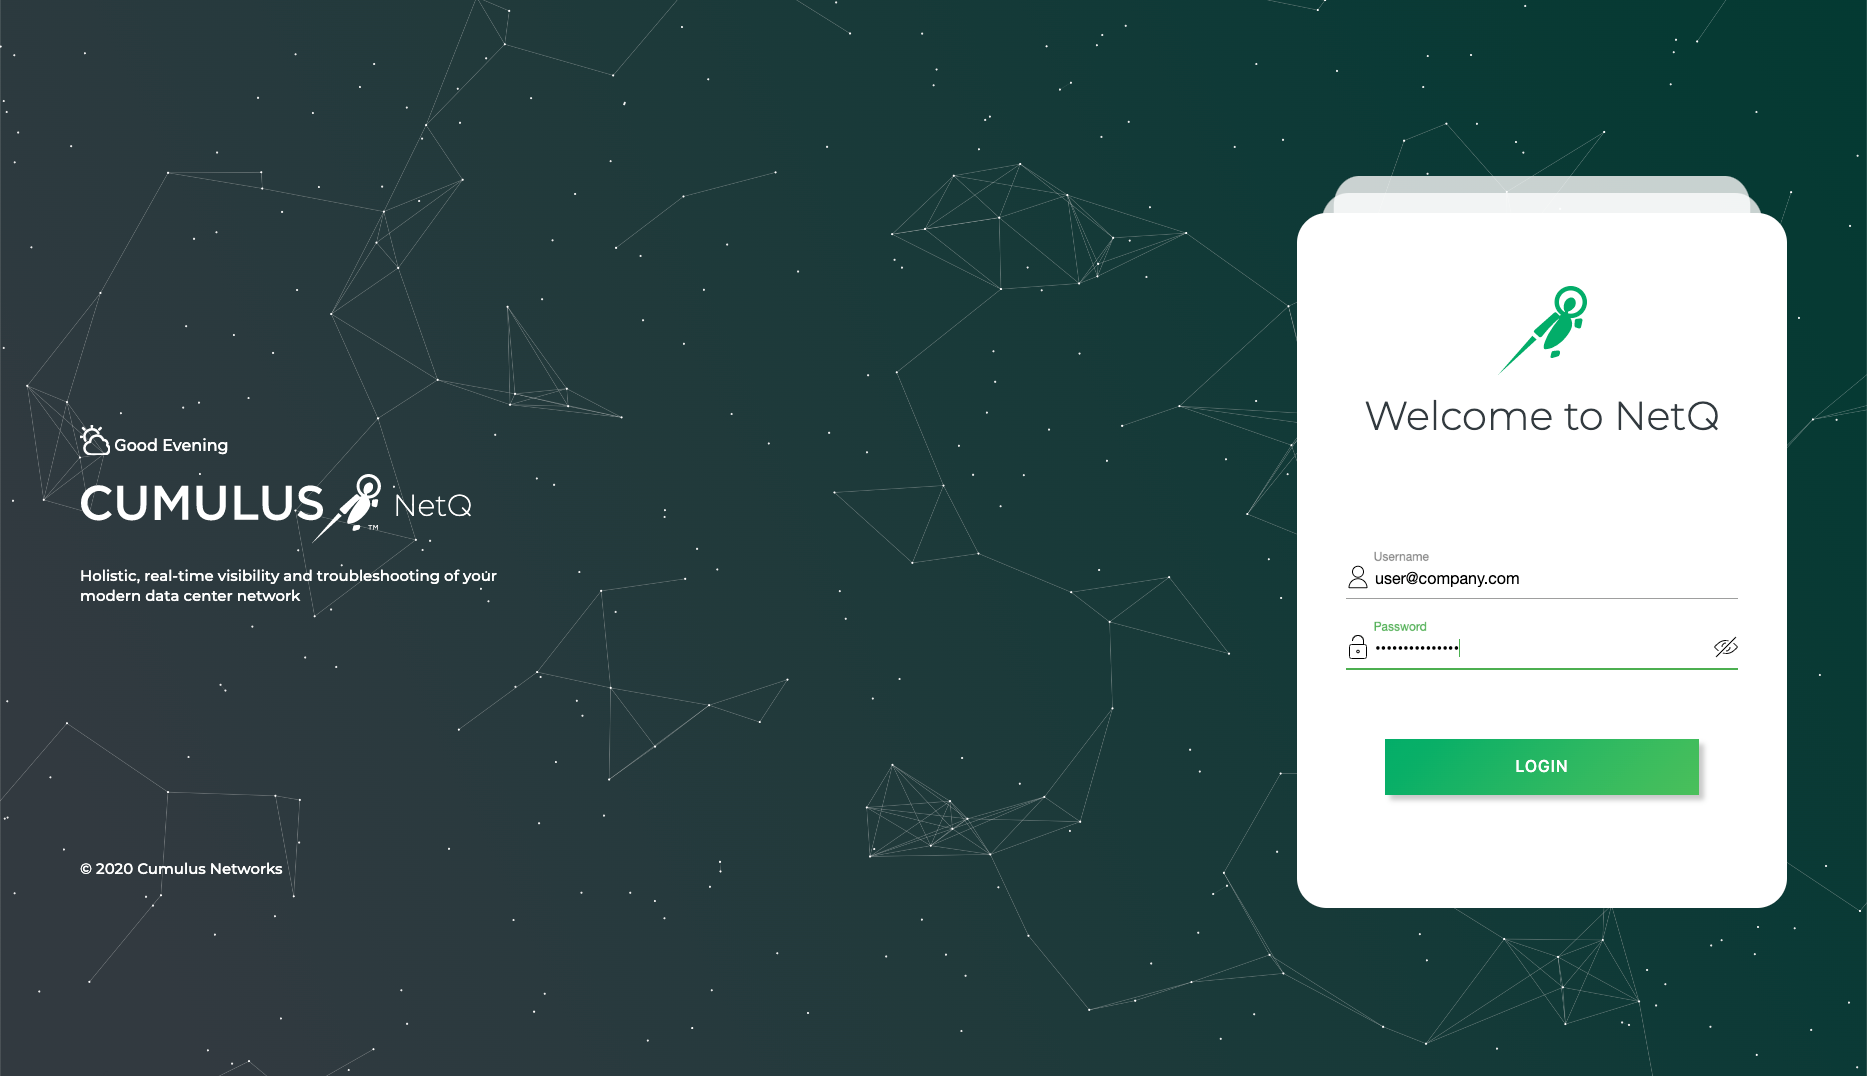
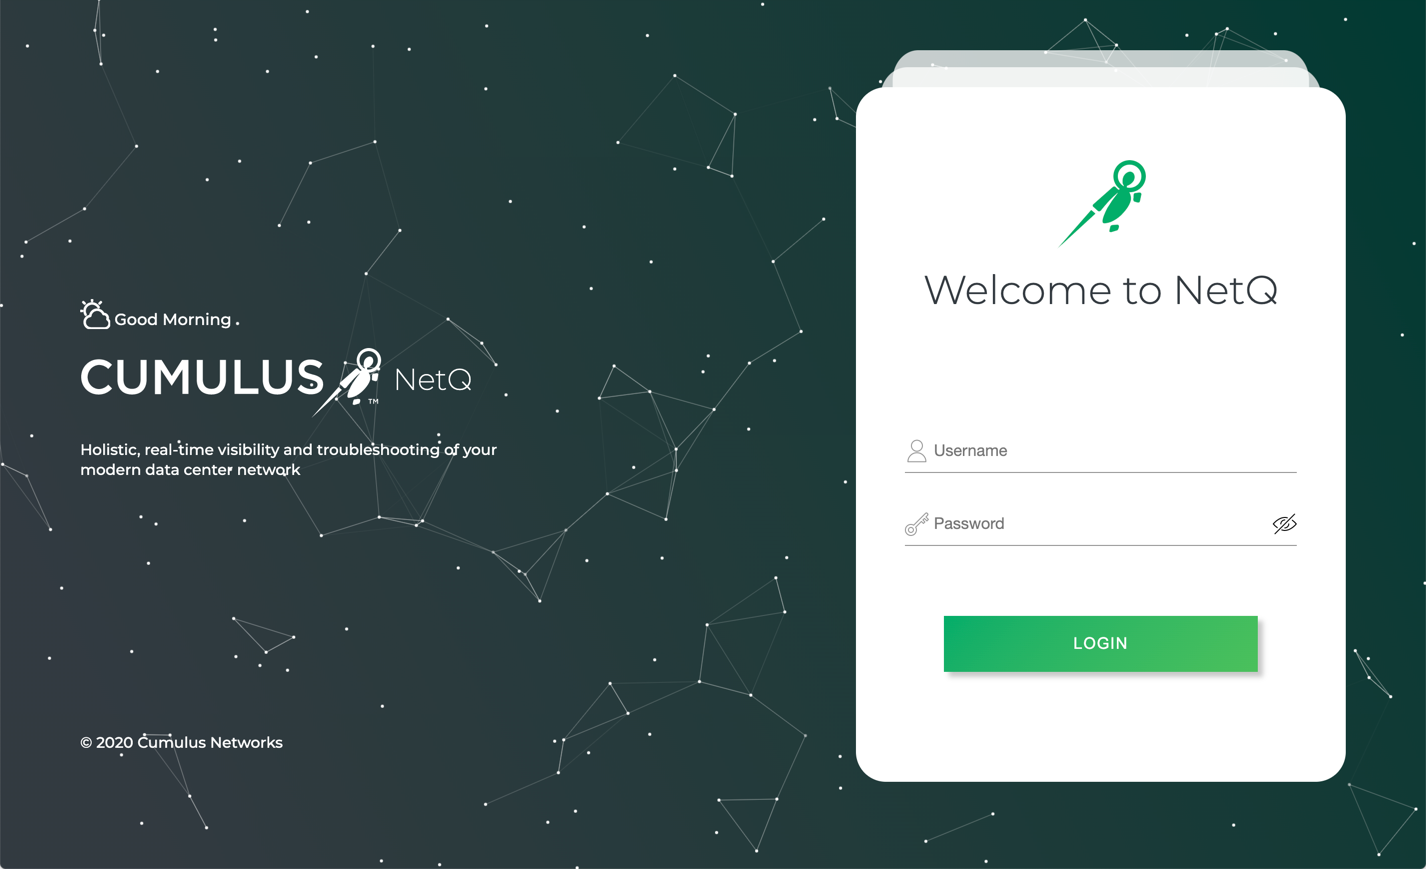
Updated login screens and steps (UD-2080)

diff --git a/content/cumulus-netq-31/Cumulus-NetQ-UI-User-Guide/NetQ-User-Interface-Overview/Access-the-UI.md b/content/cumulus-netq-31/Cumulus-NetQ-UI-User-Guide/NetQ-User-Interface-Overview/Access-the-UI.md
@@ -13,7 +13,7 @@ To log in to the UI:
     - On-premises: *https://\<hostname-or-ipaddress\>:443*  
     - Cloud: *https://netq.cumulusnetworks.com*
 
-    {{< figure src="/images/netq/access-ui-login-screen-310.png" width="600" >}}
+    {{<figure src="/images/netq/access-ui-login-screen-310.png" width="600" >}}
 
 3. Login.
 
@@ -29,23 +29,37 @@ To log in to the UI:
 
 2. Enter your password.
 
+    *Passwords must contain a minimum of eight characters, including at least one uppercase letter, one lowercase letter, one special character, and one number.* If you do not enter a strong enough password, you are reminded of these requirements.
+
+    The following error message appears if you enter incorrect credentials:
+
+    {{<figure src="/images/netq/access-ui-cred-error-310.png" width="250">}}
+
 3. Click **Login**.
 
-4. Change your password.
+    This opens the Reset Password dialog.
 
-    Enter a new password with a minimum of eight characters, including at least one uppercase letter, one lowercase letter, one special character, and one number.
+    {{<figure src="/images/netq/access-ui-reset-pswd-310.png" width="250">}}
 
-5. Enter the new password again to confirm it.
+4. Enter your current password.
 
-6. Click **Sign In**.
+5. Enter a new password.
 
-7. Read the Terms of Use.
+6. Enter the new password again to confirm it.
 
-8. Click the checkbox at the end and click **Accept**.
+7. Click **Reset**.
+
+    This opens the Terms of Use notice.
+
+     {{<figure src="/images/netq/access-ui-terms-310.png" width="350">}}
+
+8. Read the Terms of Use.
+
+9. Click the checkbox and click **Accept**.
 
     The default Cumulus Workbench opens, with your username shown in the upper right corner of the application.
 
-    {{< figure src="/images/netq/access-ui-cumulus-wb-300.png" width="700" >}}
+    {{<figure src="/images/netq/access-ui-cumulus-wb-310.png" width="700">}}
 
 {{< /tab >}}
 
@@ -54,6 +68,8 @@ To log in to the UI:
 1. Enter your username.
 
 2. Enter your password.
+
+3. Click **Login**.
 
     The user-specified home workbench is displayed. If a home workbench is not specified, then the Cumulus Default workbench is displayed.
 
